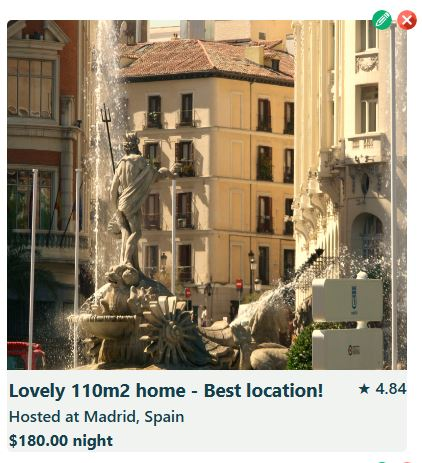
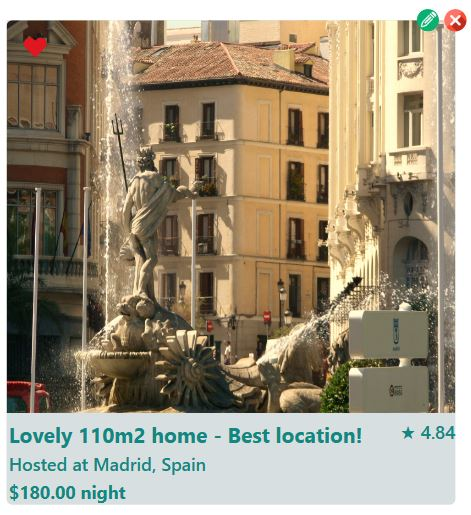
Favourite List view more & hasResult message on search fix

diff --git a/src/components/RentalCard.jsx b/src/components/RentalCard.jsx
@@ -5,7 +5,7 @@ import DeleteButton from "./DeleteButton";
 import { Link } from "react-router-dom";
 
 const RentalCard = forwardRef(
-  ({ apartment, apartList, setApartList, setDeleteMessage }, ref) => {
+  ({ apartment, apartList, setApartList, setDeleteMessage, viewMode }, ref) => {
     function handleLike() {
       const updatedApartments = apartList.map((oneApartment) => {
         if (oneApartment.id === apartment.id) {
@@ -46,18 +46,24 @@ const RentalCard = forwardRef(
           )}
         </Link>
 
-        <LikeButton apartment={apartment} handleLike={handleLike} />
+        {!viewMode && (
+          <LikeButton apartment={apartment} handleLike={handleLike} />
+        )}
 
-        <Link to={`/updateListing/${apartment.id}`}>
-          <EditButton />
-        </Link>
+        {!viewMode && (
+          <Link to={`/updateListing/${apartment.id}`}>
+            <EditButton />
+          </Link>
+        )}
 
-        <DeleteButton
-          id={apartment.id}
-          apartList={apartList}
-          setApartList={setApartList}
-          setDeleteMessage={setDeleteMessage}
-        />
+        {!viewMode && (
+          <DeleteButton
+            id={apartment.id}
+            apartList={apartList}
+            setApartList={setApartList}
+            setDeleteMessage={setDeleteMessage}
+          />
+        )}
       </div>
     );
   }

diff --git a/src/components/Favourite.jsx b/src/components/Favourite.jsx
@@ -3,15 +3,19 @@ import RentalCard from "./RentalCard";
 
 const Favourite = ({ apartList }) => {
   const [favouriteList, setFavouriteList] = useState([]);
+  const [hasResults, setHasResults] = useState(0);
+
   useEffect(() => {
     let tempList = apartList.filter((oneApartment) => {
       return oneApartment.liked;
     });
     setFavouriteList([...tempList]);
+    setHasResults(tempList.length);
   }, []);
+
   return (
-    <div>
-      <h2>Favourite Nests</h2>
+    <div className="main-content">
+      <h2 style={{ alignSelf: "center" }}>Favourite Nests</h2>
       <div className="main-rental-list">
         {favouriteList.map((apartment) => {
           return (
@@ -19,9 +23,17 @@ const Favourite = ({ apartList }) => {
               key={apartment.id}
               apartment={apartment}
               apartList={apartList}
+              viewMode={true}
             />
           );
         })}
+
+        {hasResults === 0 && (
+          <h3>
+            ❤ No Favorites Yet! <br />
+            Start exploring and tap ❤ to save your dream spaces here!
+          </h3>
+        )}
       </div>
     </div>
   );

diff --git a/src/components/MainContent.jsx b/src/components/MainContent.jsx
@@ -26,7 +26,7 @@ const MainContent = ({ apartList, setApartList, modifiedID }) => {
     }
     tempApts = sortByPrice(tempApts);
     setFilteredApts([...tempApts]);
-    setHasResults[tempApts.length];
+    setHasResults(tempApts.length);
   }, [searchStr, apartList, ascSort]);
 
   useEffect(() => {
@@ -96,11 +96,11 @@ const MainContent = ({ apartList, setApartList, modifiedID }) => {
               setApartList={setApartList}
               setDeleteMessage={setDeleteMessage}
               ref={(el) => (itemRefs.current[apartment.id] = el)}
+              viewMode={false}
             />
           );
         })}
-
-        {!hasResults && searchStr && (
+        {hasResults === 0 && searchStr && (
           <p className="error-message">
             Nada in this cozy corner—try adjusting!
           </p>

diff --git a/src/styles/Toolbar.css b/src/styles/Toolbar.css
@@ -1,6 +1,6 @@
 .toolbar {
   margin-top: 5px;
-  font-size: 0.8em;
+  font-size: 0.6em;
   display: none;
   justify-content: stretch;
 }

diff --git a/README.md b/README.md
@@ -44,15 +44,16 @@ _(https://nest-and-rest.netlify.app/)_
 
   - Search: The list can be search on the Apartment name.
     <img src="src/assets/readMeImgs/search-list.jpg" alt="Search List" width="400"/></br>
-  - Sort: The list can be sorted on the Price in ascending or descending order on the click of Sort buttons.
-    <img src="src/assets/readMeImgs/sort-list.jpg" alt="Sort List" width="400"/></br>
+  - Sort: The list can be sorted on the Price in ascending or descending order on the click of Sort button.
 
-  The Apartment List is built of Apartment Cards list. Every Card is built of below sections.
+  The Apartment List is built of Apartment Cards list.</br>
+  <img src="src/assets/readMeImgs/rental-card.jpg" alt="Like Rental" width="300"/></br>
+
+  Every Card is built of below sections.
 
   - Image: A huge image of the apartment for clear view.
   - Apartment Info: Below image the apartment's title, location, rating and price are displayed. If the apartment is sold out then 'Sold out' text is displayed instead of price.
-  - Like Icon: Displayed on top left corner of the Card. On clicking this button the respective apartment is liked & will be listed in the Favourite Apartment List</br>
-    <img src="src/assets/readMeImgs/like-rental.JPG" alt="Like Rental" width="400"/></br>
+  - Like Icon: Displayed on top left corner of the Card. On clicking this button the respective apartment is liked & will be listed in the Favourite Apartment List.
   - Edit Icon: Displayed on top right corner of the Card. On clicking this button the respective apartment is loaded in Edit mode for update.</br>
     <img src="src/assets/readMeImgs/update-rental.JPG" alt="Update Rental" width="400"/></br>
   - Delete Icon: Displayed on top right corner of the Card. On clicking this button the respective apartment is deleted from the list.
@@ -65,7 +66,7 @@ _(https://nest-and-rest.netlify.app/)_
 - Add your Nest: This menu is available in both Toolbar and Sidebar. On clicking this menu any time, the Main-content area is loaded with a Form for new apartment entry.</br>
   <img src="src/assets/readMeImgs/add-rental.JPG" alt="Add Rental" width="400"/></br>
 
-- Favourites: This menu is available in both Toolbar and Sidebar. On clicking this menu any time, the Main-content area is loaded Apartment List marked as favourite using the Like button.</br>
+- Favourite Nests: This menu is available in both Toolbar and Sidebar. On clicking this menu any time, the Main-content area is loaded with Apartment List marked as favourite using the Like button.</br>
   <img src="src/assets/readMeImgs/favourite-list.JPG" alt="Favourite List" width="400"/></br>
 - About Menu: This menu is available in both Toolbar and Sidebar. This page provides details about the website and the designers.</br>
 
